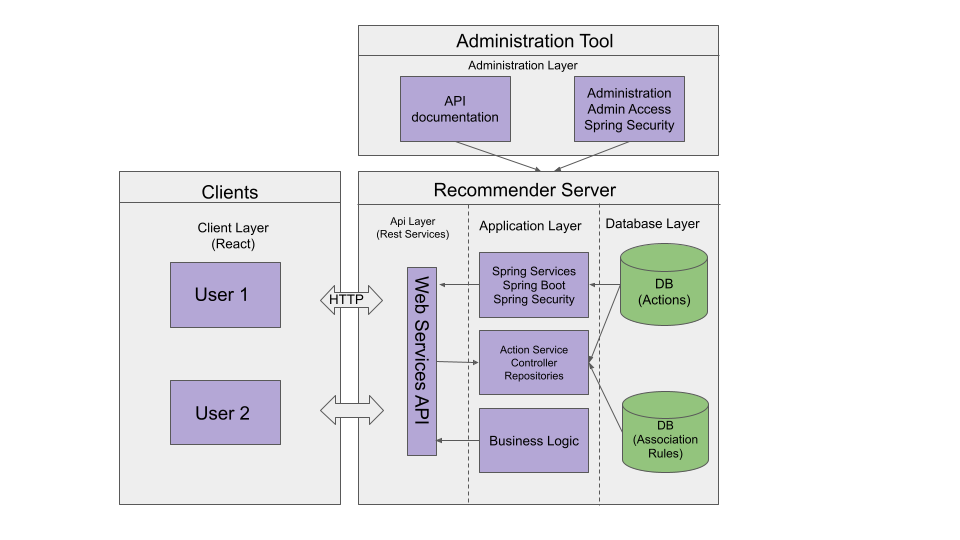
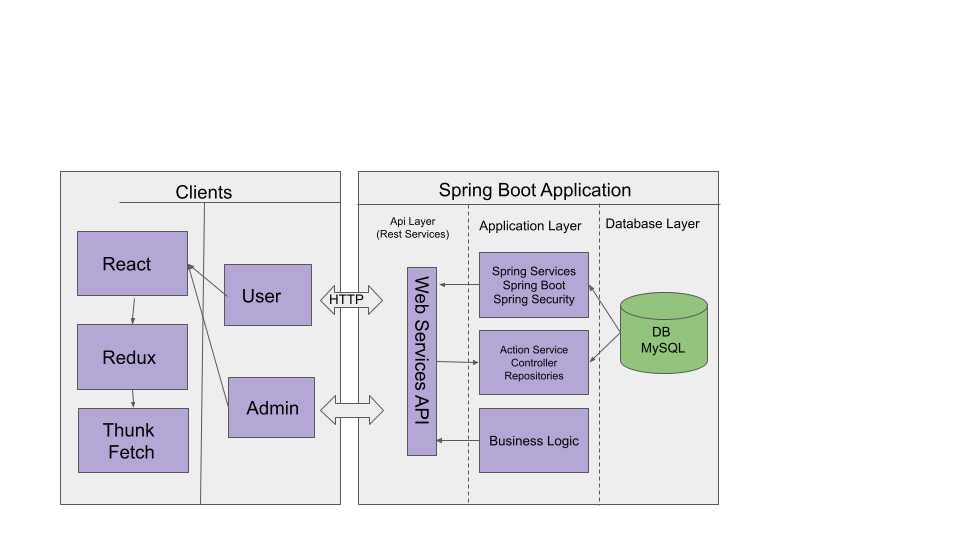
updating high level architecture and creating model classes

diff --git a/backend/src/main/java/com/capstonegroup2/backend/models/AccountHolder.java b/backend/src/main/java/com/capstonegroup2/backend/models/AccountHolder.java
@@ -15,20 +15,36 @@ public class AccountHolder {
 
     @Id
     @GeneratedValue(strategy = GenerationType.IDENTITY)
-    private int id;
+    @Column(name = "account_holder_id")
+    private Long id;
 
-    @NotBlank
+    @NotBlank(message = "First Name is a required field")
     private String firstName;
     private String middleName;
-    @NotBlank
+    @NotBlank(message = "Last Name is a required field")
     private String lastName;
-    @NotBlank
+    @NotBlank(message = "SSN is a required field")
     private String ssn;
 
-//    private UserDetails userDetails;
+    @OneToOne(fetch = FetchType.LAZY, cascade = CascadeType.ALL, mappedBy = "accountHolder")
+    private UserDetails userDetails;
 
-    /* Bank Accounts can be called by type using dummy objects */
-    private List<BankAccount> bankAccountList;
+    @OneToOne(fetch = FetchType.LAZY, cascade = CascadeType.ALL, mappedBy = "accountHolder")
+    private PersonalChecking persdonalChecking;
+
+    @OneToOne(fetch = FetchType.LAZY, cascade = CascadeType.ALL, mappedBy = "accountHolder")
+    private DBAChecking dbaChecking;
+
+    @OneToOne(fetch = FetchType.LAZY, cascade = CascadeType.ALL, mappedBy = "accountHolder")
+    private SavingsAccount savingsAccount;
+
+    @OneToOne(fetch = FetchType.LAZY, cascade = CascadeType.ALL, mappedBy = "accountHolder")
+    private IRARoth iraRoth;
+
+
+
+
+
 
     public AccountHolder(String firstName, String middleName, String lastName, String ssn) {
         this.firstName = firstName;
@@ -38,70 +54,6 @@ public class AccountHolder {
     }
 
 
-    /*
-    I think we could add a String variable named 'type' to the Bank Account class
-    or an Enum of the different types and grab the relative accounts whenever we
-    need them by that string and pull the various different subclasses with that
-    when we need them by its probably not necessary but would be slightly sleeker
-    than my current implementation as we wouldn't have to use a dummy object
-        'getAccountBalanceByType("CheckingPersonal")'
 
-    The current implementation would be to call it using a dummy object of the BankAccount
-    class you want to call as the type parameter so you create a dummy object of that class
-    and pass it as a parameter
-        BankAccount typeOfAccountYouWant = new CheckingPersonal();
-        getAccountBalanceByType(typeOfAccountYouWant);
-
-
-    I'm leaving out methods for now that want the balance of certain combinations of types
-    of accounts (for instance if we decide we want to be able to get the balance of all
-    accounts excluding ira accounts) until we decide what combinations will be useful for
-    our endpoints
-
-    I write long comments to procrastinate lol
-     */
-    public double getAccountBalanceByType(BankAccount typeOfAccount) {
-        double balance = 0;
-        for (BankAccount currentAccount : bankAccountList) {
-            if (typeOfAccount.getClass() == currentAccount.getClass()) {
-                balance = currentAccount.getBalance();
-            }
-        }
-        return balance;
-    }
-
-    public double getBalanceOfAllAccounts() {
-        double balance = 0;
-        for (BankAccount account : bankAccountList) {
-            balance += account.getBalance();
-        }
-        return balance;
-    }
-
-    public int getNumberOfAccountsByType(BankAccount typeOfAccount) {
-        int numberOfAccounts = 0;
-        for (BankAccount currentAccount : bankAccountList) {
-            if (typeOfAccount.getClass() == currentAccount.getClass()) {
-                numberOfAccounts += 1;
-            }
-        }
-        return numberOfAccounts;
-    }
-
-    public boolean addCheckingPersonalAccount(CheckingPersonal checkingPersonal) {
-        for (BankAccount currentAccount : bankAccountList) {
-            if (currentAccount.getClass() == checkingPersonal.getClass()) {
-                System.out.println("Account Holders may only have one Personal Checking Account");
-                return false;
-            }
-        }
-        bankAccountList.add(checkingPersonal);
-        return true;
-    }
-
-    public boolean addCDAccount(CdAccount cdAccount) {
-        bankAccountList.add(cdAccount);
-        return true;
-    }
 
 }

diff --git a/backend/src/main/java/com/capstonegroup2/backend/models/BankAccount.java b/backend/src/main/java/com/capstonegroup2/backend/models/BankAccount.java
@@ -1,4 +1,46 @@
 package com.capstonegroup2.backend.models;
 
+import lombok.Data;
+
+import java.text.ParseException;
+import java.text.SimpleDateFormat;
+import java.util.Date;
+
+@Data
 public class BankAccount {
+    private long accountNumber;
+    private double balance;
+    private double interestRate; //Value should be received from subclass passing up through the super constructor
+    private long openedOn;
+
+    public BankAccount(){} //Default constructor
+    public BankAccount(double balance, double interestRate){
+        this.balance = balance;
+        this.interestRate = interestRate;
+    }
+
+    public Date getOpenedOnAsDate(){
+        return new Date(this.openedOn * 1000);
+    }
+
+    public Date returnLongAsDate(long epoch){
+        //This method takes an epoch as a long and converts to Date format in local time zone
+        //Written as Thu May 27 18:58:08 CDT 2021
+        //Alternatively, the method can be rewritten to receive a string and parse.
+        //String epochString = "1622159888";
+        //long epoch = Long.parseLong(epochString);
+        return new Date(epoch * 1000);
+    }
+
+//    public boolean withdraw(WithdrawTransaction withdraw) {
+//        return false;
+//    }
+
+//    public boolean transfer(TransferTransaction transfer) {
+//        return false;
+//    }
+
+    public String closeAccountResponse() {
+        return "Account closed, balance transferred to x account";
+    }
 }

diff --git a/backend/src/main/java/com/capstonegroup2/backend/models/UserDetails.java b/backend/src/main/java/com/capstonegroup2/backend/models/UserDetails.java
@@ -1,0 +1,29 @@
+package com.capstonegroup2.backend.models;
+
+import lombok.Data;
+import lombok.NoArgsConstructor;
+
+import javax.persistence.*;
+
+@Entity
+@Table(name = "user_details")
+@Data
+@NoArgsConstructor
+public class UserDetails {
+
+    @Id
+    @GeneratedValue(strategy = GenerationType.IDENTITY)
+    private Long id;
+
+    private String userName;
+    private String password;
+
+    @OneToOne(cascade = CascadeType.ALL)
+    @JoinColumn(name = "account_holder_id")
+    private AccountHolder accountHolder;
+
+    public UserDetails(String userName, String password) {
+        this.userName = userName;
+        this.password = password;
+    }
+}

diff --git a/backend/src/main/java/com/capstonegroup2/backend/models/PersonalChecking.java b/backend/src/main/java/com/capstonegroup2/backend/models/PersonalChecking.java
@@ -1,0 +1,22 @@
+package com.capstonegroup2.backend.models;
+
+import lombok.Data;
+import lombok.NoArgsConstructor;
+
+import javax.persistence.*;
+
+@Entity
+@Table(name = "personal_checking")
+@Data
+@NoArgsConstructor
+public class PersonalChecking extends BankAccount{
+
+    @OneToOne(cascade = CascadeType.ALL)
+    @JoinColumn(name = "account_holder_id")
+    private AccountHolder accountHolder;
+
+    public PersonalChecking(double balance) {
+        super(balance, 0.0001);
+    }
+
+}

diff --git a/backend/src/main/java/com/capstonegroup2/backend/models/SavingsAccount.java b/backend/src/main/java/com/capstonegroup2/backend/models/SavingsAccount.java
@@ -1,0 +1,22 @@
+package com.capstonegroup2.backend.models;
+
+import lombok.Data;
+import lombok.NoArgsConstructor;
+
+import javax.persistence.*;
+
+@Entity
+@Table(name = "savings_account")
+@Data
+@NoArgsConstructor
+public class SavingsAccount extends BankAccount{
+
+    @OneToOne(cascade = CascadeType.ALL)
+    @JoinColumn(name = "account_holder_id")
+    private AccountHolder accountHolder;
+
+    public SavingsAccount(double balance) {
+        super(balance, 0.01);
+    }
+
+}

diff --git a/backend/src/main/java/com/capstonegroup2/backend/models/DBAChecking.java b/backend/src/main/java/com/capstonegroup2/backend/models/DBAChecking.java
@@ -1,0 +1,21 @@
+package com.capstonegroup2.backend.models;
+
+import lombok.Data;
+import lombok.NoArgsConstructor;
+
+import javax.persistence.*;
+
+@Entity
+@Table(name = "personal_checking")
+@Data
+@NoArgsConstructor
+public class DBAChecking extends BankAccount {
+
+    @OneToOne(cascade = CascadeType.ALL)
+    @JoinColumn(name = "account_holder_id")
+    private AccountHolder accountHolder;
+
+    public DBAChecking(double balance) {
+        super(balance, 0.0005);
+    }
+}

diff --git a/backend/src/main/java/com/capstonegroup2/backend/models/IRARoth.java b/backend/src/main/java/com/capstonegroup2/backend/models/IRARoth.java
@@ -1,0 +1,16 @@
+package com.capstonegroup2.backend.models;
+
+import lombok.Data;
+import lombok.NoArgsConstructor;
+
+import javax.persistence.Entity;
+import javax.persistence.Table;
+
+@Entity
+@Table(name = "ira_roth")
+@Data
+@NoArgsConstructor
+public class IRARoth extends BankAccount{
+
+
+}

diff --git a/backend/src/main/java/com/capstonegroup2/backend/repositories/AccountHolderRepository.java b/backend/src/main/java/com/capstonegroup2/backend/repositories/AccountHolderRepository.java
@@ -1,0 +1,8 @@
+package com.capstonegroup2.backend.repositories;
+
+import com.capstonegroup2.backend.models.AccountHolder;
+import org.springframework.data.jpa.repository.JpaRepository;
+
+public interface AccountHolderRepository extends JpaRepository {
+    AccountHolder findById(Long id);
+}

diff --git a/backend/src/main/java/com/capstonegroup2/backend/BackendApplication.java b/backend/src/main/java/com/capstonegroup2/backend/BackendApplication.java
@@ -1,5 +1,7 @@
 package com.capstonegroup2.backend;
 
+// Stupid Comment
+
 import org.springframework.boot.SpringApplication;
 import org.springframework.boot.autoconfigure.SpringBootApplication;
 
